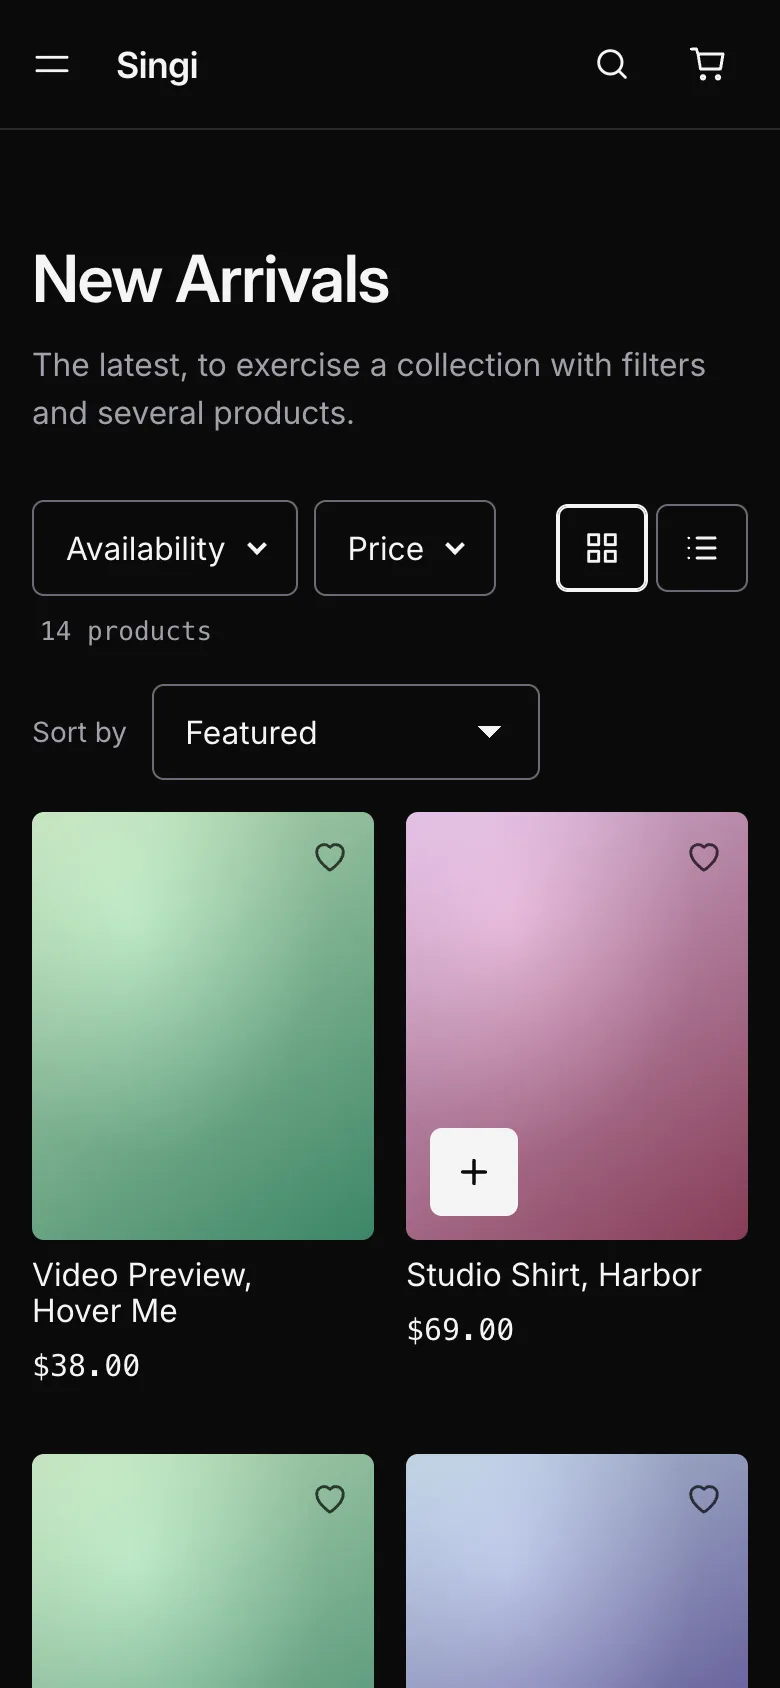
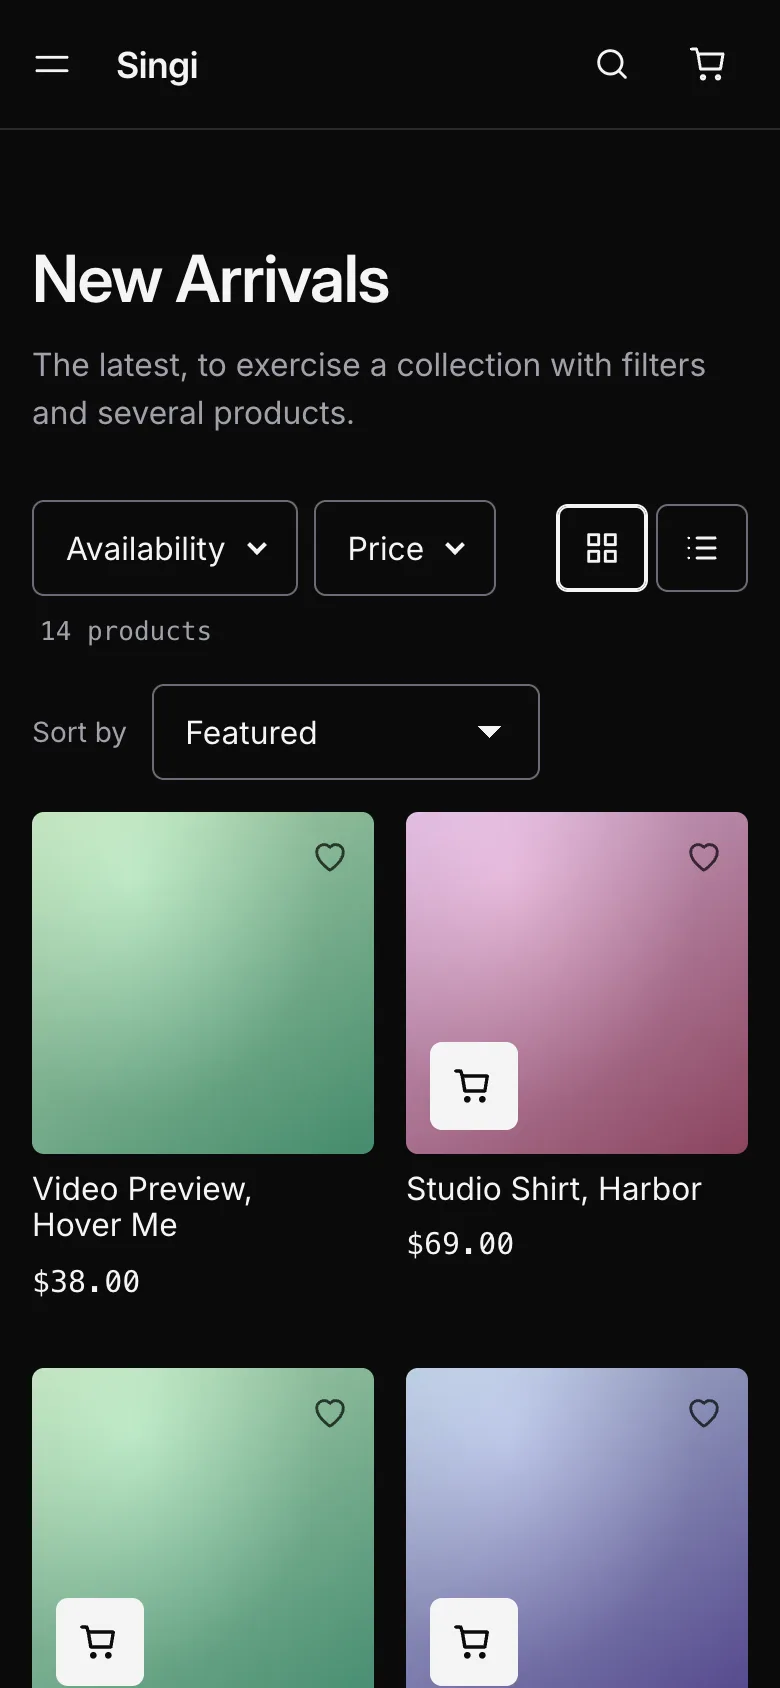
Product image format setting, square by default (decision 043); balanced sold out badge; refreshed screenshots; todo: option values in the details table

Changed region(s): [[0.5231, 0.6161, 0.9846, 1.0], [0.0308, 0.6777, 0.4923, 1.0]]

diff --git a/assets/base.css b/assets/base.css
@@ -101,10 +101,10 @@ label,legend,.label{display:block;margin-block-end:.375rem;font-size:.875rem;fon
 @media (min-width:40em){.product-grid{grid-template-columns:repeat(3,1fr)}}
 @media (min-width:56em){.product-grid{grid-template-columns:repeat(4,1fr);gap:2.5rem 1.25rem}}
 .product-card{position:relative;display:grid;gap:.5rem;align-content:start;container-type:inline-size}
-.product-card__media{position:relative;aspect-ratio:4/5;overflow:hidden;border-radius:var(--radius);background:var(--color-surface)}
+.product-card__media{position:relative;aspect-ratio:var(--ratio-product);overflow:hidden;border-radius:var(--radius);background:var(--color-surface)}
 .product-card__media img{width:100%;height:100%;object-fit:cover}
 .ai-label{position:absolute;inset:auto .75rem .75rem auto;z-index:1;padding:.25rem .4rem;border-radius:var(--radius);background:#000b;color:#fff;font:600 .7rem/1 var(--font-mono);pointer-events:none}
-.product-card>.ai-label{inset-block:calc(125cqw - .75rem)auto;translate:0 -100%}
+.product-card>.ai-label{inset-block:calc(var(--ratio-h)*100cqw - .75rem)auto;translate:0 -100%}
 .product-card__title{font-size:1rem;font-weight:var(--font-weight-body);letter-spacing:0}
 .product-card__link{text-decoration:none}
 .product-card__link::after{content:"";position:absolute;inset:0}
@@ -128,7 +128,7 @@ input:disabled,select:disabled,textarea:disabled{opacity:.6;cursor:not-allowed}
 select{appearance:none;padding-inline-end:2.75rem;background-image:linear-gradient(45deg,transparent 50%,currentcolor 50%),linear-gradient(135deg,currentcolor 50%,transparent 50%);background-position:calc(100% - 1.5rem) 50%,calc(100% - 1.125rem) 50%;background-size:.375rem .375rem;background-repeat:no-repeat}
 [dir=rtl] select{background-position:.75rem 50%,1.125rem 50%}
 select:focus-visible{outline-offset:2px}
-.product-card>img{display:block;width:100%;height:auto;aspect-ratio:4/5;object-fit:cover;border-radius:var(--radius);background:var(--color-surface)}
+.product-card>img{display:block;width:100%;height:auto;aspect-ratio:var(--ratio-product);object-fit:cover;border-radius:var(--radius);background:var(--color-surface)}
 .price{display:flex;flex-wrap:wrap;gap:.5rem;align-items:baseline;font-size:.9375rem}
 .price__was{color:var(--color-muted)}
 .price__off{color:var(--color-danger);font-weight:var(--font-weight-strong);direction:ltr;unicode-bidi:isolate}

diff --git a/scripts/tests/media.browser.js b/scripts/tests/media.browser.js
@@ -71,7 +71,9 @@
       const natural = img.naturalWidth / img.naturalHeight;
       const shown = img.getBoundingClientRect().width / img.getBoundingClientRect().height;
       ratios.add(natural.toFixed(2));
-      ok(Math.abs(natural - shown) / natural < 0.02, `image ${img.alt} is shown at ${shown.toFixed(2)}, natural ${natural.toFixed(2)}`);
+      /* decision 043: every gallery image is cropped to the product image format, whatever its own shape */
+      const [rw, rh] = getComputedStyle(document.documentElement).getPropertyValue('--ratio-product').split('/').map(Number);
+      ok(Math.abs(rw / rh - shown) / (rw / rh) < 0.02, `image ${img.alt} is shown at ${shown.toFixed(2)}, expected the product image format ${(rw / rh).toFixed(2)} (its own shape is ${natural.toFixed(2)})`);
     }
     ok(ratios.size >= 4, `expected at least 4 different aspect ratios, found ${ratios.size}`);
   }

diff --git a/assets/recently-viewed.js b/assets/recently-viewed.js
@@ -26,7 +26,7 @@ class RecentlyViewed extends HTMLElement {
     if (!handles.length) return;
     this.list = this.querySelector('ul');
     this.list.innerHTML = handles
-      .map(() => '<li aria-hidden="true"><div class="skeleton" style="aspect-ratio:4/5"></div><div class="skeleton" style="height:3.5rem;margin-block-start:.5rem"></div></li>')
+      .map(() => '<li aria-hidden="true"><div class="skeleton" style="aspect-ratio:var(--ratio-product)"></div><div class="skeleton" style="height:3.5rem;margin-block-start:.5rem"></div></li>')
       .join('');
     this.hidden = false;
     this.observer = new IntersectionObserver(([entry]) => {

diff --git a/docs/decisions/043-one-product-image-format-from-a-theme-setting-square-by-default.md b/docs/decisions/043-one-product-image-format-from-a-theme-setting-square-by-default.md
@@ -1,0 +1,55 @@
+# 043. One product image format for every view, from a theme setting, square by default
+
+Status: accepted
+Area: images | catalog | design tokens
+Code: `config/settings_schema.json` (`product_image_ratio`), `snippets/tokens.liquid` (`--ratio-product`, `--ratio-h`), `assets/base.css`, `sections/main-product.liquid`, `sections/main-cart.liquid`, `sections/cart-drawer.liquid`, `snippets/product-card.liquid`, `snippets/wishlist-item.liquid`, `snippets/search-results.liquid`, `snippets/skeletons.liquid`, `assets/recently-viewed.js`, `scripts/test-image-ratio.mjs`
+
+## Context
+
+Product images were cropped to 4:5 on cards, cart lines and skeletons, shown at their natural shape in the product gallery and 1:1 in the quick buy dialog: the same product looked different in every place, and a catalog with mixed image shapes made rows uneven. The maintainer asked for one format in every view, as a theme setting, defaulting to the standard that Google, Meta and the like use, with the merchant free to choose what fits their catalog.
+
+## Decision
+
+- **A theme setting "Product image format"** with four values: **Square (1:1), the default**, Portrait (4:5), Tall (2:3), Landscape (4:3).
+- **Two tokens** from `snippets/tokens.liquid`: `--ratio-product` (`1 / 1`, `4 / 5`, `2 / 3`, `4 / 3`) and `--ratio-h` (its height as a number: 1, 1.25, 1.5, 0.75), for the one place that positions something at an image's bottom edge (the card's cart button and the AI label, `calc(var(--ratio-h) * 100cqw)`).
+- **Every product image uses the token:** card images (grid, list, search results, related, recently viewed), card video preview, the product gallery's images, cart page and cart drawer lines, favorites, search suggestions' thumbnails, the quick buy dialog's image and every loading skeleton. They are cropped (`object-fit: cover`) to the ratio.
+- **Not changed:** video and embeds in the gallery keep their own shape, the zoom shows the whole uncropped image, and content images (hero, image block, features, articles) have their own settings.
+
+## Why
+
+### Why the default is square
+
+- **Every channel a product image leaves for accepts it.** Meta's catalog specification is 1:1 at 1024 by 1024 pixels (smaller sizes accepted); Shopify's own guidance for product images is a square 2048 by 2048; Google Merchant Center accepts squares and sets no fixed ratio for the main image (its product data help mentions 9:11 for vertical and 4:3 for horizontal images as ideal for some listings, which is why portrait and landscape are choices here), and it is raising its minimum to 500 by 500 pixels (announced for January 2027). A merchant who shoots square once serves the store, Google and Meta without cropping for each.
+- **The shape is neutral:** it suits mixed catalogs better than a tall or a wide shape, and it needs the fewest rows of height on a phone grid.
+- **The research is from secondary sources** (guides and trade press; the search could not retrieve Google's and Meta's own specification pages at the time): check the current numbers in Merchant Center and Commerce Manager before relying on a minimum size.
+
+## Alternatives rejected
+
+| Alternative | Why not |
+| --- | --- |
+| Portrait 4:5 as the default (the previous look) | Good for clothing, wrong for most other catalogs, and not what the catalogs the images are sent to ask for. |
+| "Adapt to image" (each image keeps its shape) | Is the cause of uneven rows and different shapes in different views, the thing this decision removes. A merchant with one native shape picks the matching format. |
+| A free ratio field (any `width / height`) | A merchant types "3:2", gets a layout nobody tested; four tested shapes are enough and keep the skeletons and the button position correct. |
+| One setting per view (cards, gallery, cart) | The point is consistency. |
+
+## Edge cases and dead ends
+
+- **The card's cart button** sits at `calc(var(--ratio-h) * 100cqw - 0.75rem)`; it was `125cqw`, which only holds for 4:5. `test:image-ratio` checks that it is on the image's bottom edge for each format.
+- **The quick buy dialog's image** is capped at 40% of the screen height (`max-height: 40dvh`), so on a short screen its box is wider than the ratio; only the ratio value is asserted.
+- **The cached skeleton markup in `recently-viewed.js`** is a style attribute with the variable, so it follows the setting without a script change (and the total JavaScript budget moved by 2 bytes plus slack: 23,620 to 23,650).
+- **Product images that do not match the ratio are cropped.** The setting's help text says so and recommends uploading in the chosen shape.
+- **Settings values are named `square`, `portrait`, `tall`, `landscape`,** not ratios, so a later change of what "tall" is cropped to does not rename saved settings.
+
+## Trade-offs we accept
+
+- Changing the setting crops existing images differently and can cut off the top or bottom of images in another shape.
+- Four shapes, not any shape.
+- The default changes the look of an existing store from 4:5 to square on update.
+
+## How to verify
+
+`npm run test:image-ratio` for the default (square) and with `SINGI_RATIO=portrait` after setting it (`npm run test:all` runs both); then look at a collection, a product, the cart and the quick buy dialog in each format.
+
+## Revisit when
+
+A format is missing for a real catalog (for example 3:4), or Google or Meta change their recommended shape.

diff --git a/todo.md b/todo.md
@@ -180,6 +180,12 @@ Rules for the loop:
   - *Data model (decided):* the bundle's children are declared by a proper metafield on the bundle product with a **product reference type** (a `list.product_reference`, the same approach as color siblings, [decision 003](docs/decisions/003-color-siblings-product-list.md)), not a loose list of handles. Shopify then validates the references, they follow product renames and deletions, `product.metafields.*.value` gives the product objects directly, and the merchant picks products in the admin instead of typing handles. Bundle price or discount and any per-child options go in further typed metafields, not in strings parsed by the theme. Document the definitions in `docs/metafields.md` and create them with the mock tooling.  
   - *Research first (not yet read for this item):* an existing bundle setup and its UI, the Shopify Scripts that apply the bundle discount, and the events and backend code that handle bundles and the metadata they expect. Record what the existing setup stores (metafields, line item properties, discounts) before choosing a data model, and write the choice up as a decision record.
 
+- [ ] **Option values in the details table, linked to filtered product lists** — *P1,P2,P5*  
+  - *Why:* A shopper who likes a color, material or size on one product can see the other products that share it in one press, and the product page's details table (`blocks/_product-specs.liquid`) becomes a way to browse, not only to read.  
+  - *Scope:* list each of the product's options and their values (for example Color: Black, Material: Wool) as rows in the details table, and link each value to the storefront filtered list for that value, using Shopify's own filter parameters (`filter.v.option.<name>=<value>` on the collection or search list, which needs the option filter enabled in Search & Discovery). Do it only for options that have a filter enabled, so no link leads to an unfiltered or empty page; keep the rows readable without JavaScript (plain links).  
+  - *SEO (decided):* these filtered views are not canonical, so the links carry **`rel="nofollow"`**; check that the filtered list's canonical stays the unfiltered one (`snippets/meta-tags.liquid` uses `canonical_url`, which Shopify generates without filter parameters) and that the filtered view is not added to the sitemap by the theme.  
+  - *Open:* which list the link targets (the product's own collection, `/collections/all`, or search), how a value with a swatch is shown (text and swatch), and whether the variant picker and the table both show the options or the table only the non-variant attributes. Record the answer in a decision and add a headless Chrome test with a filter on the dev store.
+
 ## P2 — Enablers (DX/tooling that protects UX quality)
 
 - [x] **Typed JS spike (high-churn interaction code first)** — *P6 (indirect P1–P4 via fewer regressions)*    

diff --git a/docs/tooling.md b/docs/tooling.md
@@ -62,6 +62,7 @@ All npm scripts, what they do, the environment variables they read, and the dev-
 | `npm run test:cart-drawer` | The cart drawer ([decision 020](decisions/020-cart-drawer-reuses-cart-items.md)), with the store's real cart in a fresh browser: closed on load, the header link opens it, Escape and the backdrop close it, focus returns, an add opens it with the line, quantity and remove update it, right to left and a phone, the link navigates on the cart page. |
 | `npm run test:sticky-buy` | The sticky add to cart bar ([decision 021](decisions/021-sticky-add-to-cart-submits-the-product-form.md)): hidden at the top and on a wide screen (the details column is sticky there), shown once the buy box has scrolled out above on a phone, hidden at the footer, no change in page height, its button adds through the buy box's form and opens the drawer, a variant change updates it. |
 | `npm run test:quick-buy` | Quick buy on product cards ([decision 022](decisions/022-quick-buy-is-the-product-form-in-a-dialog.md)). Needs the setting on for the dev theme: `npm run theme:set -- card_quick_buy=true --theme <singi-dev id> --apply` (never the MAIN theme). A named 44px button on products with options and still one link per card, hidden without JavaScript, the dialog's content, no address change, an option change, an add that closes it and opens the drawer, Escape and focus, a phone in right to left. |
+| `npm run test:image-ratio` | The product image format setting (decision 043): cards, search results, the gallery, the cart page and the quick buy dialog use the chosen ratio and the card's cart button still sits on the image's bottom edge. `SINGI_RATIO=portrait npm run test:image-ratio` after setting it; `test:all` runs square and portrait. |
 | `npm run test:option-label` | Option legends carry no value for text chips (decision 042); the color siblings label reads "Color: Moss" with `singi.color_name` and plain "Color" without it ([decision 024](decisions/024-option-labels-name-the-chosen-value.md)). Needs the mock siblings with their names (`npm run siblings -- link ...`). |
 | `npm run test:usp` | The USP list on `/pages/mock-blocks` ([decision 025](decisions/025-usp-list-is-a-list-of-item-blocks.md)): list roles, the empty item skipped, hidden icons, side by side or stacked, right to left, no script. |
 | `npm run test:features` | The feature list on `/pages/mock-blocks` ([decision 026](decisions/026-feature-list-is-a-list-of-item-blocks.md)): list roles, lazy sized images in 4:5 boxes, the icon item, three columns or one, right to left, no script. |

diff --git a/docs/reference/assets.md b/docs/reference/assets.md
@@ -7,7 +7,7 @@ Size in bytes (before Shopify's CDN compression) and where each asset is referen
 | Asset | Bytes | Referenced by |
 | --- | --- | --- |
 | `assets/announcement-bar.js` | 521 | `sections/announcement-bar.liquid` |
-| `assets/base.css` | 12031 | `layout/password.liquid`, `layout/theme.liquid`, `templates/gift_card.liquid` |
+| `assets/base.css` | 12080 | `layout/password.liquid`, `layout/theme.liquid`, `templates/gift_card.liquid` |
 | `assets/card-video.js` | 1425 | `layout/theme.liquid` |
 | `assets/cart-drawer.js` | 1689 | `sections/cart-drawer.liquid` |
 | `assets/cart-items.js` | 2181 | `sections/cart-drawer.liquid`, `sections/main-cart.liquid` |
@@ -21,7 +21,7 @@ Size in bytes (before Shopify's CDN compression) and where each asset is referen
 | `assets/quantity-input.js` | 1772 | `layout/theme.liquid`, `sections/cart-drawer.liquid`, `snippets/quantity-input.liquid` |
 | `assets/quick-add.js` | 1637 | `layout/theme.liquid` |
 | `assets/quick-buy.js` | 1642 | `layout/theme.liquid` |
-| `assets/recently-viewed.js` | 2233 | `sections/header.liquid`, `blocks/recently-viewed.liquid` |
+| `assets/recently-viewed.js` | 2250 | `sections/header.liquid`, `blocks/recently-viewed.liquid` |
 | `assets/show-more.js` | 3120 | `snippets/pagination.liquid` |
 | `assets/soft-nav.js` | 8383 | `layout/theme.liquid` |
 | `assets/sticky-buy.js` | 561 | `snippets/sticky-buy.liquid` |

diff --git a/docs/decisions/README.md b/docs/decisions/README.md
@@ -63,5 +63,6 @@ You do not need one for routine code that follows the rules in [AGENTS.md](../..
 | [038](038-placeholder-images-by-type-and-vendor.md) | A product with no image gets a placeholder chosen by its type and vendor, from a typed metaobject | product media, catalog, content storage |
 | [039](039-dev-tooling-stays-dependency-free.md) | Developer tooling stays dependency-free: native git hooks, a small CI, and no typechecker, build step or Liquid formatter | developer experience, CI, performance |
 | [040](040-liquid-is-formatted-by-prettier.md) | Liquid is formatted by Prettier, the first devDependency family | developer experience, CI |
+| [043](043-one-product-image-format-from-a-theme-setting-square-by-default.md) | One product image format for every view, from a theme setting, square by default | images, catalog, design tokens |
 | [042](042-an-option-legend-names-its-value-only-when-the-chips-do-not.md) | An option legend names the chosen value only when the chips do not say it in words | product page, accessibility |
 | [041](041-typed-javascript-with-jsdoc-and-no-build-step.md) | JavaScript is typed with JSDoc and checked by `tsc`, with no build step | developer experience, JavaScript |

diff --git a/docs/design-system.md b/docs/design-system.md
@@ -19,6 +19,7 @@ Settings in `config/settings_schema.json` become CSS custom properties in `snipp
 | `--logo-width` | `settings.logo_width` | Logo width in px. |
 | `--color-bg`, `--color-surface`, `--color-fg`, `--color-muted`, `--color-border`, `--color-accent` | light and dark color settings | Resolved with `light-dark()`. |
 | `--color-scrim` | the dimmed page behind a dialog, drawer or popover | `rgb(0 0 0 / 0.6)` in both schemes, deliberately not `light-dark()`: the foreground is light in dark mode, and a scrim made from it turns the page pale. Use it for every `::backdrop` that dims the page. |
+| `--ratio-product`, `--ratio-h` | the product image format (the theme setting "Product image format": square by default, portrait, tall, landscape): the `aspect-ratio` of every product image and its height as a number | `1 / 1` and `1` by default; [decision 043](decisions/043-one-product-image-format-from-a-theme-setting-square-by-default.md) |
 | `--gutter` | `base.css` | `clamp(1rem, 4vw, 2rem)` page side padding. |
 | `--header-h` | `base.css` | 4rem sticky header height. |
 | `--tracking-tight`, `--tracking-wide` | `base.css` | Letter-spacing. Zeroed for RTL, CJK, Thai and Indic. |

diff --git a/docs/reference/settings.md b/docs/reference/settings.md
@@ -59,6 +59,7 @@ Defined in `config/settings_schema.json`, read in Liquid as `settings.<id>`.
 | `card_quick_buy` | checkbox | Let shoppers choose options from product cards | `false` |
 | `card_show_type` | checkbox | Show the product type above the title on product cards | `false` |
 | `show_percent_off` | checkbox | Show percentage off on discounted prices | `true` |
+| `product_image_ratio` | select | Product image format | `"square"` |
 | `page_width` | select | Page width | `"84rem"` |
 | `radius` | range | Corner radius | `6` |
 
